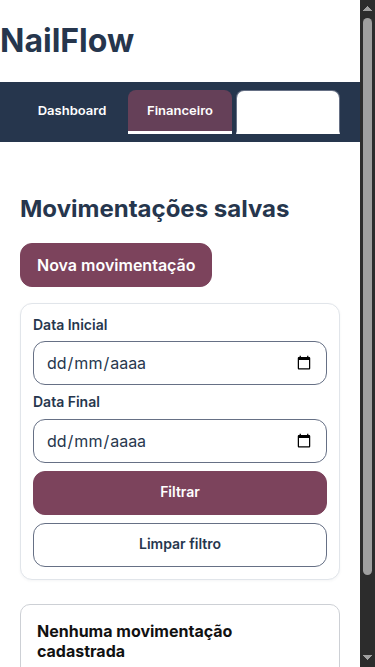
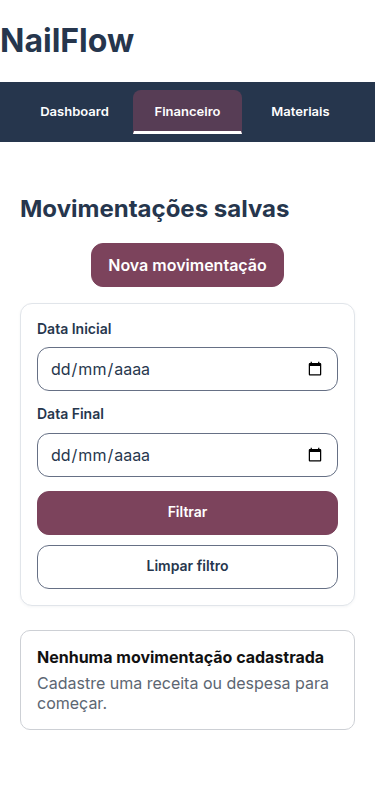
fix(ui): centraliza botao nova movimentacao e ajusta inputs mobile (#34)

diff --git a/css/movimentacoes.css b/css/movimentacoes.css
@@ -3,17 +3,19 @@
    Identidade visual: Modelo B (Mobile-first)
 ======================================== */
 
+[data-tela="financeiro"] .container-acao,
 [data-tela="financeiro"] > a[href="#movimentacao"] {
-  display: inline-flex;
+  display: flex;
+  justify-content: center;
   margin-bottom: 16px;
 }
 
 .filtros-movimentacoes {
   display: grid;
   grid-template-columns: 1fr;
-  gap: 8px;
+  gap: 10px;
   margin-bottom: 24px;
-  padding: 12px;
+  padding: 16px;
   border: 1px solid #E1E5EA;
   border-radius: 12px;
   background-color: #FFFFFF;
@@ -27,10 +29,16 @@
   line-height: 1.25;
 }
 
+.filtros-movimentacoes label[for="filtro-data-final"] {
+  margin-top: 4px;
+}
+
 .filtros-movimentacoes input[type="date"] {
   width: 100%;
+  max-width: 100%;
+  min-width: 0;
   min-height: 44px;
-  padding: 8px 12px;
+  padding: 10px 12px;
   border: 1px solid #667085;
   border-radius: 12px;
   background-color: #FFFFFF;
@@ -64,6 +72,7 @@
 }
 
 .filtros-movimentacoes #btn-filtrar-periodo {
+  margin-top: 4px;
   border: 1px solid #7C435C;
   background-color: #7C435C;
   color: #FFFFFF;
@@ -116,6 +125,7 @@
   .filtros-movimentacoes label[for="filtro-data-final"] {
     grid-column: 2;
     grid-row: 1;
+    margin-top: 0;
   }
 
   .filtros-movimentacoes #filtro-data-final {
@@ -126,6 +136,7 @@
   .filtros-movimentacoes #btn-filtrar-periodo {
     grid-column: 1;
     grid-row: 3;
+    margin-top: 0;
   }
 
   .filtros-movimentacoes #btn-limpar-filtro {

diff --git a/index.html b/index.html
@@ -63,7 +63,9 @@
 
           </div>
 
-          <a href="#movimentacao">Nova movimentação</a>
+          <div class="container-acao">
+            <a href="#movimentacao">Nova movimentação</a>
+          </div>
         </section>
 
         <section
@@ -151,7 +153,9 @@
             Movimentações salvas
           </h2>
 
-          <a href="#movimentacao">Nova movimentação</a>
+          <div class="container-acao">
+            <a href="#movimentacao">Nova movimentação</a>
+          </div>
 
           <div class="filtros-movimentacoes">
             <label for="filtro-data-inicial">Data Inicial</label>
@@ -179,7 +183,9 @@
 
           <p>O controle de materiais está em desenvolvimento.</p>
 
-          <a href="#cadastro-material">Cadastrar material</a>
+          <div class="container-acao">
+            <a href="#cadastro-material">Cadastrar material</a>
+          </div>
         </section>
 
         <section
@@ -192,7 +198,9 @@
 
           <p>Cadastro de materiais - em desenvolvimento.</p>
 
-          <a href="#materiais">Voltar para Materiais</a>
+          <div class="container-acao">
+            <a href="#materiais">Voltar para Materiais</a>
+          </div>
         </section>
       </main>
   </body>

diff --git a/css/style.css b/css/style.css
@@ -36,6 +36,15 @@ button {
   display: none !important;
 }
 
+/* Contêiner para centralização de ações principais (F01, F02, F04, F05) */
+.container-acao {
+  display: flex;
+  justify-content: center;
+  align-items: center;
+  width: 100%;
+  text-align: center;
+}
+
 /* Links de acesso aos fluxos F03 e F05 (alvo mínimo de toque 44 × 44 px — WCAG 2.5.5) */
 a[href="#movimentacao"],
 a[href="#cadastro-material"] {
@@ -70,8 +79,8 @@ a[href="#cadastro-material"]:focus-visible {
   outline-offset: 2px;
 }
 
-/* Link secundário de retorno */
-a[href="#materiais"] {
+/* Link secundário de retorno (específico da tela de cadastro de materiais F05) */
+[data-tela="cadastro-material"] a[href="#materiais"] {
   display: inline-flex;
   align-items: center;
   justify-content: center;
@@ -91,12 +100,12 @@ a[href="#materiais"] {
   transition: background-color 150ms ease, border-color 150ms ease;
 }
 
-a[href="#materiais"]:hover {
+[data-tela="cadastro-material"] a[href="#materiais"]:hover {
   background-color: #F8FAFC;
   border-color: #26364D;
 }
 
-a[href="#materiais"]:focus-visible {
+[data-tela="cadastro-material"] a[href="#materiais"]:focus-visible {
   outline: 3px solid #7C435C;
   outline-offset: 2px;
 }

diff --git a/css/navegacao.css b/css/navegacao.css
@@ -37,7 +37,9 @@ nav[aria-label="Navegação principal"] a[data-rota] {
   text-decoration: none;
 
   border-radius: 8px 8px 0 0;
+  border: 1px solid transparent;
   border-bottom: 3px solid transparent;
+  background-color: transparent;
 
   transition: background-color 150ms ease;
 }
